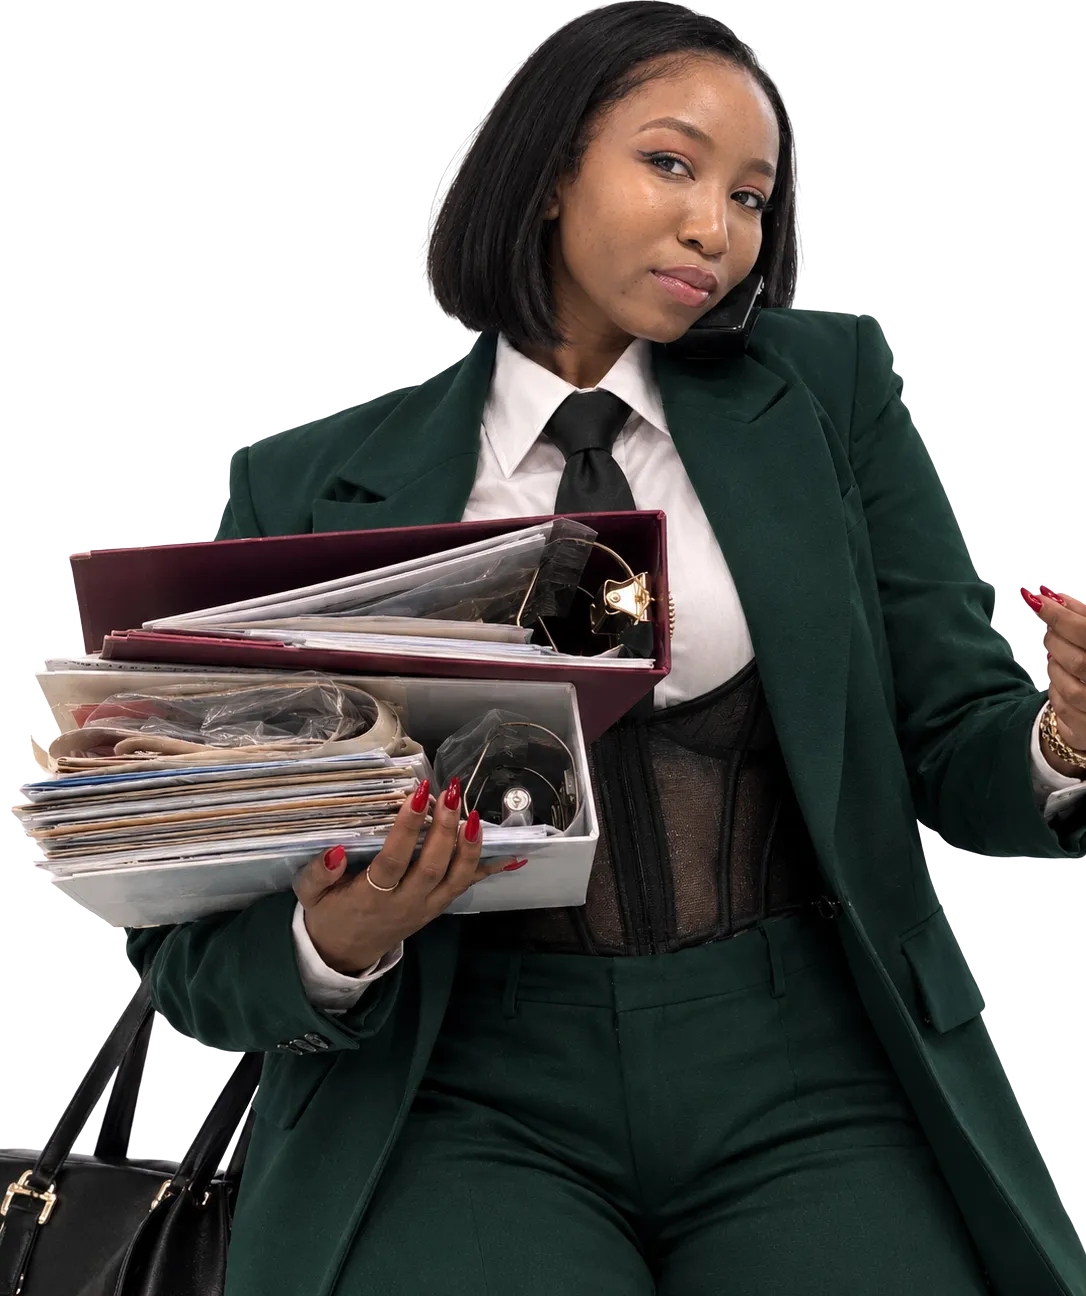
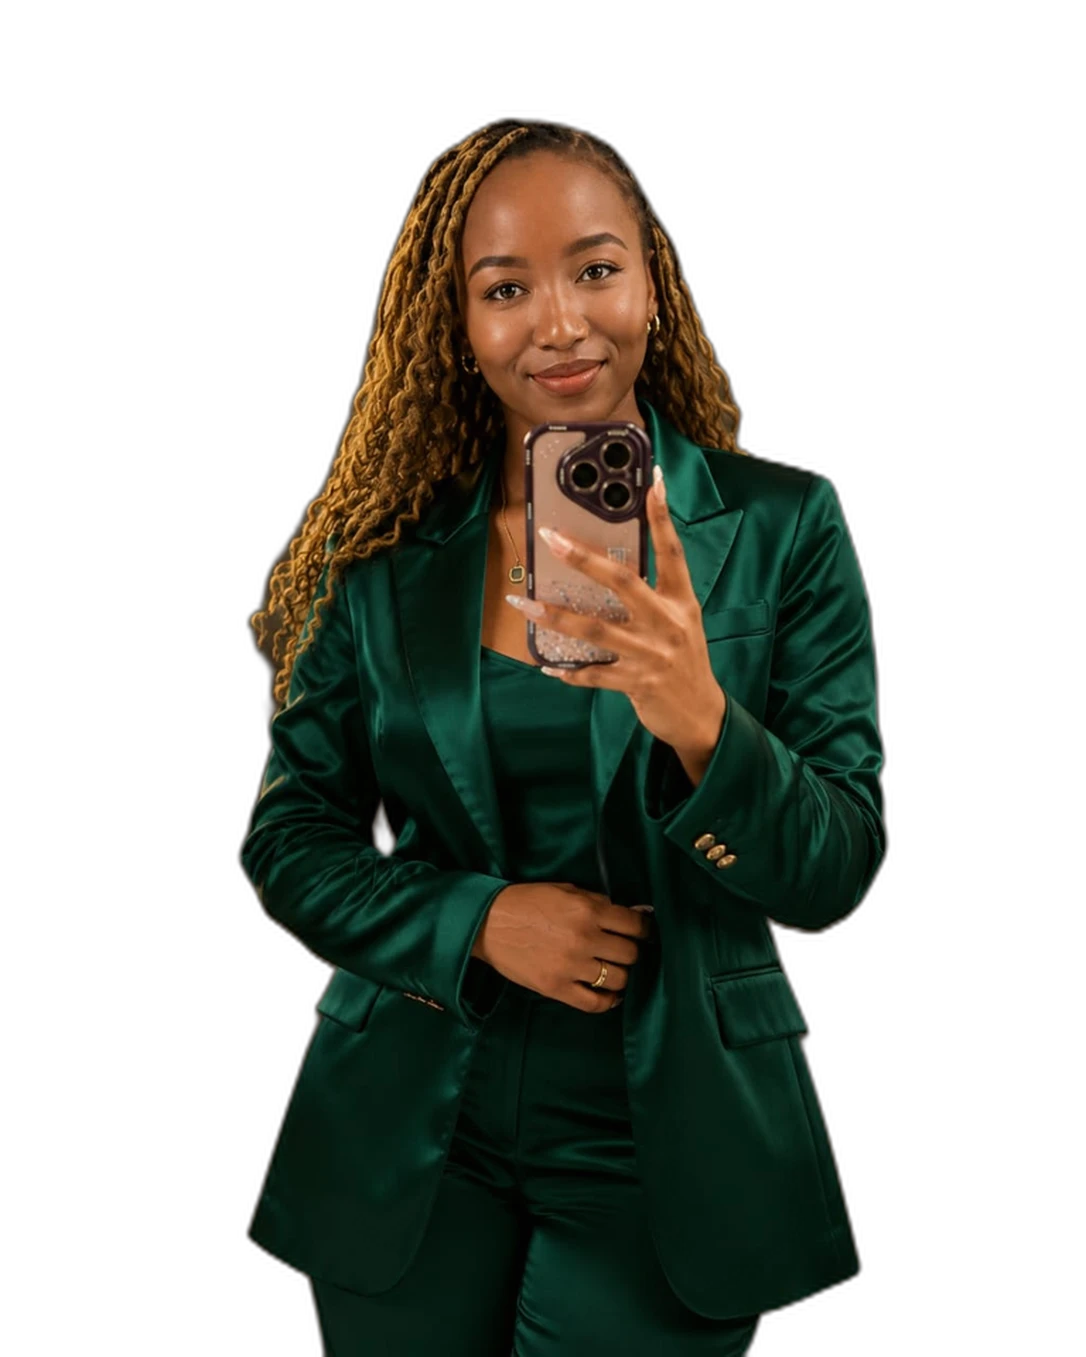
Visual redesign: marble entrance, darker buttons, new cutout photo, emerald form
- Replace house exterior with full-viewport marble building image (portrait,
  multi-resolution) with gradient overlay, centered logo and welcome text,
  CSS ribbon bar with gold lines and seal disc
- Update opening animation selectors to match new marble exterior classes
  (no doors, simplified ribbon-line and seal-disc transitions)
- Darken pathway button backgrounds (deeper green for MM, deeper purple for TIQ)
- Replace Who We Help section photo with new businesswoman-in-green-suit cutout
  (background removed, three sizes)
- Add darker emerald textured background to workshop registration form
- Simplify AI workshop hero section
- Update preload link to reference marble images

Claude-Session: https://claude.ai/code/session_01LVjBkF8BxhrnwfXe4xgsho

diff --git a/src/app/globals.css b/src/app/globals.css
@@ -395,29 +395,43 @@ ul, ol { margin: 0; padding: 0; }
 .hx { --ease-door: cubic-bezier(0.65, 0, 0.35, 1); --ease-push: cubic-bezier(0.6, 0, 0.2, 1);
   position: relative; height: 100svh; min-height: 320px; overflow: hidden; background: #0c0d0b; isolation: isolate; }
 .hx-ext, .hx-int { position: absolute; inset: 0; overflow: hidden; container-type: size; }
-/* A "stage" is the artwork's own box, covering the screen like background-size: cover, centred on the doorway. */
+/* Interior stage – the artwork's own box, covering the screen like background-size: cover */
 .hx-stage { position: absolute; left: 50%; top: 50%; transform: translate(-50%, -50%); }
 .hx-stage > * { position: absolute; }
-.hx-stage--ext { --u: calc(max(100cqw, 177.683cqh) / 1672); width: max(100cqw, 177.683cqh); height: max(100cqh, 56.2799cqw); }
 .hx-stage--int { --u: calc(max(100cqw, 177.872cqh) / 1672); width: max(100cqw, 177.872cqh); height: max(100cqh, 56.2201cqw); }
-.hx-ext__base, .hx-int__base { inset: 0; width: 100%; height: 100%; display: block; max-width: none; }
+.hx-int__base { inset: 0; width: 100%; height: 100%; display: block; max-width: none; }
 .hx-int__cover { display: none; }
 
-/* Outside */
-.hx-ext { z-index: 1; transform-origin: var(--hx-ox, 50%) var(--hx-oy, 55%); }
-.hx-aperture { overflow: hidden; }
-.hx-door { position: absolute; display: block; max-width: none; transition: transform 0.75s var(--ease-door); will-change: transform; }
-.hx-door-hit { inset: 0; position: absolute; cursor: pointer; }
-.hx-ribbon { display: block; max-width: none; transition: transform 0.6s cubic-bezier(0.3, 0.6, 0.2, 1), opacity 0.42s ease 0.1s; will-change: transform, opacity; }
-.hx-ribbon--l { transform-origin: 0% 50%; }
-.hx-ribbon--r { transform-origin: 100% 50%; }
-.hx-seal { display: block; max-width: none; transition: transform 0.25s ease; filter: drop-shadow(0 calc(var(--u) * 3) calc(var(--u) * 6) rgba(0, 0, 0, 0.45)); }
-.hx-seal-glow { border-radius: 50%; pointer-events: none; background: radial-gradient(circle, rgba(240, 210, 130, 0.55) 0%, rgba(240, 210, 130, 0.18) 45%, rgba(240, 210, 130, 0) 70%); opacity: 0; animation: hx-breathe 3.2s ease-in-out 1s infinite; }
+/* Outside – marble building */
+.hx-ext { z-index: 1; display: flex; flex-direction: column; align-items: center; justify-content: center; }
+.hx-marble { position: absolute; inset: 0; width: 100%; height: 100%; object-fit: cover; object-position: center 35%; max-width: none; }
+.hx-marble-overlay { position: absolute; inset: 0; background: linear-gradient(180deg, rgba(6,31,22,0.4) 0%, rgba(6,31,22,0.08) 25%, rgba(6,31,22,0.08) 55%, rgba(6,31,22,0.55) 100%); z-index: 1; }
+.hx-marble-content { position: relative; z-index: 2; display: flex; flex-direction: column; align-items: center; gap: clamp(12px, 2.5vw, 24px); text-align: center; padding: 0 24px; margin-top: -6vh; }
+.hx-marble-logo { width: clamp(200px, 55vw, 420px); height: auto; filter: drop-shadow(0 4px 24px rgba(0,0,0,0.5)); }
+.hx-marble-welcome { font-family: var(--display, Georgia, serif); font-size: clamp(0.75rem, 1.8vw, 1.15rem); font-weight: 400; letter-spacing: 0.24em; text-transform: uppercase; color: rgba(244,240,232,0.85); text-shadow: 0 2px 12px rgba(0,0,0,0.6); }
+/* Ribbon bar */
+.hx-ribbon-bar { position: absolute; z-index: 3; left: 12%; right: 12%; top: 50%; transform: translateY(clamp(40px, 8vh, 80px)); display: flex; align-items: center; justify-content: center; gap: 0; pointer-events: none; transition: opacity 0.5s ease, transform 0.5s ease; }
+.hx-ribbon-line { flex: 1; height: 3px; transition: transform 0.6s cubic-bezier(0.3, 0.6, 0.2, 1), opacity 0.42s ease 0.1s; }
+.hx-ribbon-line--l { background: linear-gradient(90deg, transparent 0%, var(--gold) 35%, var(--gold) 100%); transform-origin: 0% 50%; }
+.hx-ribbon-line--r { background: linear-gradient(90deg, var(--gold) 0%, var(--gold) 65%, transparent 100%); transform-origin: 100% 50%; }
+.hx-seal-disc { width: clamp(44px, 6vw, 60px); height: clamp(44px, 6vw, 60px); border-radius: 50%; flex-shrink: 0;
+  background: radial-gradient(circle at 40% 35%, #e8c94e, #a17f28); border: 2px solid rgba(255,240,200,0.6);
+  box-shadow: 0 4px 16px rgba(0,0,0,0.5), 0 0 24px rgba(201,168,76,0.3);
+  display: flex; align-items: center; justify-content: center;
+  font-family: var(--display, Georgia, serif); font-size: clamp(1rem, 1.6vw, 1.3rem); font-weight: 700; color: #3a2a08;
+  transition: transform 0.25s ease; }
+.hx-seal-glow { position: absolute; width: clamp(72px, 10vw, 92px); height: clamp(72px, 10vw, 92px); border-radius: 50%; pointer-events: none;
+  background: radial-gradient(circle, rgba(240,210,130,0.55) 0%, rgba(240,210,130,0.18) 45%, rgba(240,210,130,0) 70%);
+  opacity: 0; animation: hx-breathe 3.2s ease-in-out 1s infinite; }
 @keyframes hx-breathe { 0%, 100% { opacity: 0; transform: scale(0.9); } 50% { opacity: 1; transform: scale(1.12); } }
-.hx-ribbon-btn { z-index: 3; background: transparent; border: 0; padding: 0; cursor: pointer; border-radius: calc(var(--u) * 30); -webkit-tap-highlight-color: transparent; }
-.hx-ribbon-btn:focus-visible { box-shadow: 0 0 0 2px rgba(12, 13, 11, 0.6), 0 0 0 4px #e9cd84; border-radius: calc(var(--u) * 30); }
-.hx:has(.hx-ribbon-btn:hover) .hx-seal, .hx:has(.hx-ribbon-btn:focus-visible) .hx-seal, .hx:has(.hx-door-hit:hover) .hx-seal { transform: scale(1.06); }
-.hx:has(.hx-ribbon-btn:hover) .hx-seal-glow, .hx:has(.hx-ribbon-btn:focus-visible) .hx-seal-glow { animation-duration: 1.6s; }
+.hx-aperture { position: absolute; left: 50%; top: 50%; width: 18%; height: 38%; transform: translate(-50%, -8%); pointer-events: none; }
+/* Open button over entire exterior */
+.hx-ribbon-open { position: absolute; z-index: 4; inset: 0; background: transparent; border: 0; cursor: pointer; -webkit-tap-highlight-color: transparent; display: flex; align-items: flex-end; justify-content: center; padding-bottom: clamp(48px, 10vh, 100px); }
+.hx-ribbon-open:focus-visible { box-shadow: inset 0 0 0 3px rgba(233,205,132,0.5); }
+.hx-marble-cue { font-family: var(--font, sans-serif); font-size: 0.6875rem; font-weight: 500; letter-spacing: 0.18em; text-transform: uppercase; color: rgba(244,240,232,0.55); animation: hx-cue-pulse 2.5s ease-in-out infinite; }
+@keyframes hx-cue-pulse { 0%,100%{opacity:0.45} 50%{opacity:0.9} }
+.hx:has(.hx-ribbon-open:hover) .hx-seal-disc { transform: scale(1.08); }
+.hx:has(.hx-ribbon-open:hover) .hx-seal-glow, .hx:has(.hx-ribbon-open:focus-visible) .hx-seal-glow { animation-duration: 1.6s; }
 
 /* Inside */
 .hx-int { z-index: 2; visibility: hidden; background: #0c0d0b;
@@ -453,28 +467,27 @@ ul, ol { margin: 0; padding: 0; }
 
 .hx-chip { position: absolute; z-index: 2; transform: translate(-50%, -50%); display: grid; justify-items: center; gap: 4px; align-content: center; width: max-content; min-width: 14rem; min-height: 64px; max-width: 15.5rem; padding: 10px 20px 11px; border-radius: 999px; text-align: center;
   box-shadow: inset 0 1px 0 rgba(255, 255, 255, 0.22), 0 14px 30px -12px rgba(0, 0, 0, 0.7); opacity: 0; transition: opacity 0.5s ease, transform 0.25s ease, box-shadow 0.25s ease, border-color 0.25s ease; }
-.hx-path--mm .hx-chip { color: #ecd08a; border: 1px solid rgba(236, 208, 138, 0.7); background: linear-gradient(180deg, rgba(255, 255, 255, 0.14), rgba(255, 255, 255, 0) 55%), linear-gradient(160deg, rgba(10, 96, 74, 0.95), rgba(3, 45, 35, 0.96)); }
-.hx-path--tiq .hx-chip { color: #ffffff; border: 1px solid rgba(226, 178, 58, 0.75); background: linear-gradient(180deg, rgba(255, 255, 255, 0.14), rgba(255, 255, 255, 0) 55%), linear-gradient(160deg, rgba(116, 19, 124, 0.96), rgba(57, 0, 64, 0.97)); }
+.hx-path--mm .hx-chip { color: #ecd08a; border: 1px solid rgba(236, 208, 138, 0.7); background: linear-gradient(180deg, rgba(255, 255, 255, 0.10), rgba(255, 255, 255, 0) 55%), linear-gradient(160deg, rgba(6, 56, 38, 0.97), rgba(3, 28, 18, 0.98)); }
+.hx-path--tiq .hx-chip { color: #ffffff; border: 1px solid rgba(226, 178, 58, 0.75); background: linear-gradient(180deg, rgba(255, 255, 255, 0.10), rgba(255, 255, 255, 0) 55%), linear-gradient(160deg, rgba(72, 0, 82, 0.97), rgba(36, 0, 42, 0.98)); }
 .hx-chip__desc { font-size: var(--t-xs); font-weight: 500; letter-spacing: 0.03em; line-height: 1.3; text-wrap: balance; }
 .hx-path--mm .hx-chip__desc { color: #f6ecd0; }
 .hx-chip__enter { font-size: 0.6875rem; font-weight: 600; letter-spacing: 0.22em; text-transform: uppercase; line-height: 1; }
 .hx-path:hover .hx-chip { transform: translate(-50%, calc(-50% - 3px)); }
 .hx-path:focus-visible .hx-chip { box-shadow: 0 0 0 3px rgba(12, 12, 10, 0.8), 0 0 0 5px var(--ring), 0 14px 30px -12px rgba(0, 0, 0, 0.7); }
 
-/* Opening sequence */
+/* Opening sequence – marble exterior */
 .hx:not([data-phase='closed']) .hx-seal-glow { animation: none; opacity: 0; }
-.hx:is([data-phase='ribbon'], [data-phase='doors'], [data-phase='push'], [data-phase='open']) .hx-seal { animation: hx-seal-lift 0.55s cubic-bezier(0.3, 0, 0.2, 1) forwards; }
+.hx:is([data-phase='ribbon'], [data-phase='doors'], [data-phase='push'], [data-phase='open']) .hx-seal-disc { animation: hx-seal-lift 0.55s cubic-bezier(0.3, 0, 0.2, 1) forwards; }
 @keyframes hx-seal-lift { 0% { transform: scale(1); } 22% { transform: scale(0.9); opacity: 1; } 100% { transform: translateY(-14%) scale(1.25) rotate(16deg); opacity: 0; } }
-.hx:is([data-phase='ribbon'], [data-phase='doors'], [data-phase='push'], [data-phase='open']) .hx-ribbon--l { transform: translate(-30%, 9%) rotate(-5deg); opacity: 0; }
-.hx:is([data-phase='ribbon'], [data-phase='doors'], [data-phase='push'], [data-phase='open']) .hx-ribbon--r { transform: translate(30%, 9%) rotate(5deg); opacity: 0; }
-.hx:not([data-phase='closed']) .hx-ribbon-btn, .hx:not([data-phase='closed']) .hx-door-hit { pointer-events: none; }
-.hx:is([data-phase='doors'], [data-phase='push'], [data-phase='open']) .hx-door--l { transform: translateX(-101%); }
-.hx:is([data-phase='doors'], [data-phase='push'], [data-phase='open']) .hx-door--r { transform: translateX(101%); }
+.hx:is([data-phase='ribbon'], [data-phase='doors'], [data-phase='push'], [data-phase='open']) .hx-ribbon-line--l { transform: scaleX(0) translateX(-20%); opacity: 0; }
+.hx:is([data-phase='ribbon'], [data-phase='doors'], [data-phase='push'], [data-phase='open']) .hx-ribbon-line--r { transform: scaleX(0) translateX(20%); opacity: 0; }
+.hx:not([data-phase='closed']) .hx-ribbon-open { pointer-events: none; }
+.hx:not([data-phase='closed']) .hx-marble-cue { opacity: 0; }
 .hx:not([data-phase='closed']) .hx-int { visibility: visible; }
 .hx[data-phase='doors'] .hx-int { clip-path: inset(var(--hx-t) var(--hx-r) var(--hx-b) var(--hx-l)); transition: clip-path 0.75s var(--ease-door); }
 .hx:is([data-phase='push'], [data-phase='open']) .hx-int { clip-path: inset(0); transition: clip-path 1s var(--ease-push); }
 .hx:is([data-phase='push'], [data-phase='open']) .hx-stage--int { transform: translate(-50%, -50%) scale(1); }
-.hx:is([data-phase='push'], [data-phase='open']) .hx-ext { transform: scale(2.2); transition: transform 1s var(--ease-push); }
+.hx:is([data-phase='push'], [data-phase='open']) .hx-ext { transform: scale(2.2); opacity: 0; transition: transform 1s var(--ease-push), opacity 0.8s ease 0.2s; }
 .hx[data-phase='open'] .hx-ext { visibility: hidden; }
 .hx[data-phase='open'] :is(.hx-int__bar, .hx-chip) { opacity: 1; }
 .hx[data-phase='leaving'] .hx-int { visibility: visible; clip-path: inset(0); opacity: 0; transition: opacity 0.45s ease; }
@@ -483,7 +496,7 @@ ul, ol { margin: 0; padding: 0; }
 .hx[data-phase='leaving'] .hx-ext, .hx[data-phase='leaving'] .hx-ext * { transition: none; }
 /* Returning visitors, "skip", reduced motion: no animation at all */
 .hx[data-instant], .hx[data-instant] * { transition: none !important; animation: none !important; }
-.hx[data-instant][data-phase='open'] :is(.hx-seal, .hx-ribbon) { opacity: 0; }
+.hx[data-instant][data-phase='open'] :is(.hx-seal-disc, .hx-ribbon-line, .hx-ribbon-bar) { opacity: 0; }
 
 /* Inside on wide screens: the viewer is just the full-screen frame; the phone pager is hidden. */
 .hx-viewer { position: absolute; inset: 0; }
@@ -508,8 +521,8 @@ ul, ol { margin: 0; padding: 0; }
   .hx-visual { display: none; }
   .hx-paths { position: absolute; inset: 0; left: 0; top: 0; width: auto; height: auto; display: grid; grid-template-columns: 1fr 1fr; gap: 2px; background: #c9a75a; transform: none !important; }
   .hx-path { --py: var(--fy); position: relative !important; left: auto !important; top: auto !important; width: auto !important; height: auto !important; overflow: hidden; container-type: size; border-radius: 0; }
-  .hx-path--mm { background: linear-gradient(160deg, #0a5c48, #03241c); }
-  .hx-path--tiq { background: linear-gradient(160deg, var(--royal), var(--royal-night)); }
+  .hx-path--mm { background: linear-gradient(160deg, #063826, #031c12); }
+  .hx-path--tiq { background: linear-gradient(160deg, #48005a, #24002a); }
   .hx-path__crop { --s: min(max(calc(100cqw / 430), calc(100cqh / 470)), calc(100cqw / 330)); display: block; position: absolute; max-width: none; height: auto;
     width: calc(var(--s) * 1672); left: calc(50% - var(--s) * var(--fx)); top: calc(50% - var(--s) * var(--py)); transition: transform 0.5s ease, filter 0.35s ease; }
   .hx-path::after { content: ''; position: absolute; inset: 0; box-shadow: inset 0 0 0 0 var(--glow-line); transition: box-shadow 0.3s ease; pointer-events: none; }
@@ -737,6 +750,9 @@ ul, ol { margin: 0; padding: 0; }
 .hp { position: absolute; left: -10000px; width: 1px; height: 1px; overflow: hidden; }
 .spinner { width: 16px; height: 16px; border: 2px solid currentColor; border-right-color: transparent; border-radius: 50%; animation: spin 0.8s linear infinite; }
 @keyframes spin { to { transform: rotate(360deg); } }
+
+/* ---------- Workshop form: deeper emerald background ---------- */
+.workshop-register > .container { background: var(--gloss-soft), url('/textures/green-stone.webp') 50% 50% / cover no-repeat, #041f14; }
 
 /* ---------- Workshop payment card ---------- */
 .workshop-payment-wrap { display: none; margin-top: var(--s-5); }

diff --git a/src/components/HouseEntrance.tsx b/src/components/HouseEntrance.tsx
@@ -184,31 +184,29 @@ export function HouseEntrance({ heading, cue, choicePrompt, returnLabel, majesty
       <h1 id="hx-heading" className="visually-hidden">{heading}</h1>
       <a href="#hx-paths" className="skip-link" onClick={(e) => { e.preventDefault(); open(true); }}>Skip to the two destinations</a>
 
-      {/* ---------------- Outside ---------------- */}
+      {/* ---------------- Outside – marble building ---------------- */}
       <div className="hx-ext" aria-hidden={!closed}>
-        <div className="hx-stage hx-stage--ext">
+        {/* eslint-disable-next-line @next/next/no-img-element */}
+        <img className="hx-marble" src="/house/marble-1672.webp" srcSet="/house/marble-640.webp 640w, /house/marble-1100.webp 1100w, /house/marble-1672.webp 1672w"
+          sizes="max(100vw, 200svh)" alt="" fetchPriority="high" decoding="async" />
+        <div className="hx-marble-overlay" />
+        <div className="hx-marble-content">
           {/* eslint-disable-next-line @next/next/no-img-element */}
-          <img className="hx-ext__base" src="/house/ext-1672.webp" srcSet="/house/ext-1100.webp 1100w, /house/ext-1672.webp 1672w"
-            sizes="max(100vw, 178svh)" width={L.width} height={L.height} alt="" fetchPriority="high" decoding="async" />
-          <div ref={aperture} className="hx-aperture" style={extBox(L.door)}>
-            {/* eslint-disable-next-line @next/next/no-img-element */}
-            <img className="hx-door hx-door--l" src="/house/door-l.webp" alt="" style={within(L.doorL, L.door)} />
-            {/* eslint-disable-next-line @next/next/no-img-element */}
-            <img className="hx-door hx-door--r" src="/house/door-r.webp" alt="" style={within(L.doorR, L.door)} />
-            {/* The doors carry the artwork's own "Tap to enter", so tapping them opens the entrance too. */}
-            <span className="hx-door-hit" onClick={() => open()} aria-hidden="true" />
-          </div>
-          {/* eslint-disable-next-line @next/next/no-img-element */}
-          <img className="hx-ribbon hx-ribbon--l" src="/house/ribbon-l.webp" alt="" style={extBox(L.ribbonL)} />
-          {/* eslint-disable-next-line @next/next/no-img-element */}
-          <img className="hx-ribbon hx-ribbon--r" src="/house/ribbon-r.webp" alt="" style={extBox(L.ribbonR)} />
-          <span className="hx-seal-glow" style={extBox({ x: L.seal.cx - L.seal.r - 14, y: L.seal.cy - L.seal.r - 14, w: (L.seal.r + 14) * 2, h: (L.seal.r + 14) * 2 })} aria-hidden="true" />
-          {/* eslint-disable-next-line @next/next/no-img-element */}
-          <img className="hx-seal" src="/house/seal.webp" alt="" style={extBox(L.sealBox)} />
-          <button ref={ribbonBtn} type="button" className="hx-ribbon-btn" style={extBox(RIBBON_HIT)}
-            onClick={() => open()} tabIndex={closed ? 0 : -1}
-            aria-label={`${cue}: open the ribbon and step inside to choose Majesty Method or TenderIQ`} />
+          <img className="hx-marble-logo" src="/brand/mm-hero-logo-1225.webp" srcSet="/brand/mm-hero-logo-640.webp 640w, /brand/mm-hero-logo-1225.webp 1225w" sizes="clamp(200px, 55vw, 420px)" width={1225} height={646} alt="Majesty Method" />
+          <span className="hx-marble-welcome">Welcome to Majesty Method</span>
         </div>
+        <div className="hx-ribbon-bar" aria-hidden="true">
+          <span className="hx-ribbon-line hx-ribbon-line--l" />
+          <span className="hx-seal-glow" />
+          <span className="hx-seal-disc">M</span>
+          <span className="hx-ribbon-line hx-ribbon-line--r" />
+        </div>
+        <div ref={aperture} className="hx-aperture" />
+        <button ref={ribbonBtn} type="button" className="hx-ribbon-open"
+          onClick={() => open()} tabIndex={closed ? 0 : -1}
+          aria-label={`${cue}: open the ribbon and step inside to choose Majesty Method or TenderIQ`}>
+          <span className="hx-marble-cue">{cue}</span>
+        </button>
       </div>
 
       {/* ---------------- Inside ---------------- */}

diff --git a/src/app/majesty-method/ai-workshop/page.tsx b/src/app/majesty-method/ai-workshop/page.tsx
@@ -16,15 +16,9 @@ export default function AiWorkshopPage() {
   return (
     <>
       <section className="split-hero surface--emerald hero-lit" aria-labelledby="workshop-title">
-        <div className="container" style={{ paddingBlock: 'clamp(48px, 8vw, 96px)' }}>
-          <p className="crumb"><Link href="/majesty-method">Majesty Method</Link></p>
+        <div className="container" style={{ paddingBlock: 'clamp(48px, 8vw, 80px)', maxWidth: '640px' }}>
           <h1 id="workshop-title" style={{ fontSize: 'var(--t-2xl)' }}>AI for Business Workshop</h1>
-          <p className="lead">Learn to use AI practically in your business — from strategy to daily operations.</p>
-          <ul className="ticks" style={{ marginTop: 'var(--s-5)' }}>
-            <li>Hands-on, practical session for founders and teams</li>
-            <li>Walk away with AI tools you can use immediately</li>
-            <li>Limited spots available</li>
-          </ul>
+          <p className="lead">Learn to use AI practically in your business.</p>
           <div className="btn-row" style={{ marginTop: 'var(--s-5)' }}>
             <Link className="btn" href="#register">Register now — R250</Link>
           </div>

diff --git a/src/app/page.tsx b/src/app/page.tsx
@@ -21,7 +21,7 @@ export default async function EntryPage() {
   const s = getSettings();
   return (
     <div className="entry" data-brand="majesty">
-      <link rel="preload" as="image" href="/house/ext-1672.webp" imageSrcSet="/house/ext-1100.webp 1100w, /house/ext-1672.webp 1672w" imageSizes="max(100vw, 178svh)" fetchPriority="high" />
+      <link rel="preload" as="image" href="/house/marble-1672.webp" imageSrcSet="/house/marble-640.webp 640w, /house/marble-1100.webp 1100w, /house/marble-1672.webp 1672w" imageSizes="max(100vw, 200svh)" fetchPriority="high" />
       <main>
         <HouseEntrance heading={c.headline} cue={c.cue} choicePrompt={c.choicePrompt} returnLabel={c.returnLabel} majesty={c.majesty} tenderiq={c.tenderiq} />
       </main>

diff --git a/src/lib/content/schema.ts b/src/lib/content/schema.ts
@@ -277,7 +277,7 @@ export const DOCS: DocDef[] = [
       },
       who: {
         title: 'Who we help',
-        image: { id: 'seed-who-cutout', alt: 'A businesswoman in an emerald suit on the phone, juggling a stack of overflowing folders' },
+        image: { id: 'seed-who-cutout', alt: 'A businesswoman in an emerald green satin suit holding a phone' },
         items: [
           { title: 'Founders doing their own marketing', body: 'You want a clear plan instead of guessing what to post next.' },
           { title: 'Small businesses ready to grow', body: 'You have customers and want a dependable way to find more.' },
